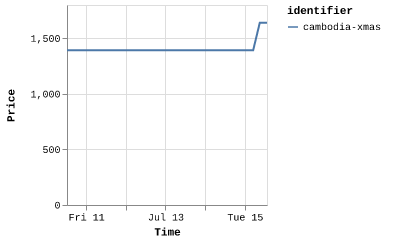
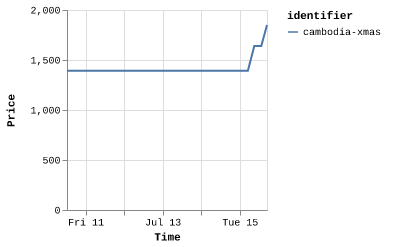
Latest scraping flights: Tue Jul 15 16:56:13 UTC 2025

Changed region(s): [[0.0, 0.0, 0.6699, 0.9835], [0.699, 0.0289, 0.932, 0.1446]]

diff --git a/scrapes/flights/cambodia-xmas.md b/scrapes/flights/cambodia-xmas.md
@@ -1,1 +1,1 @@
-€1,641
+€1,850
